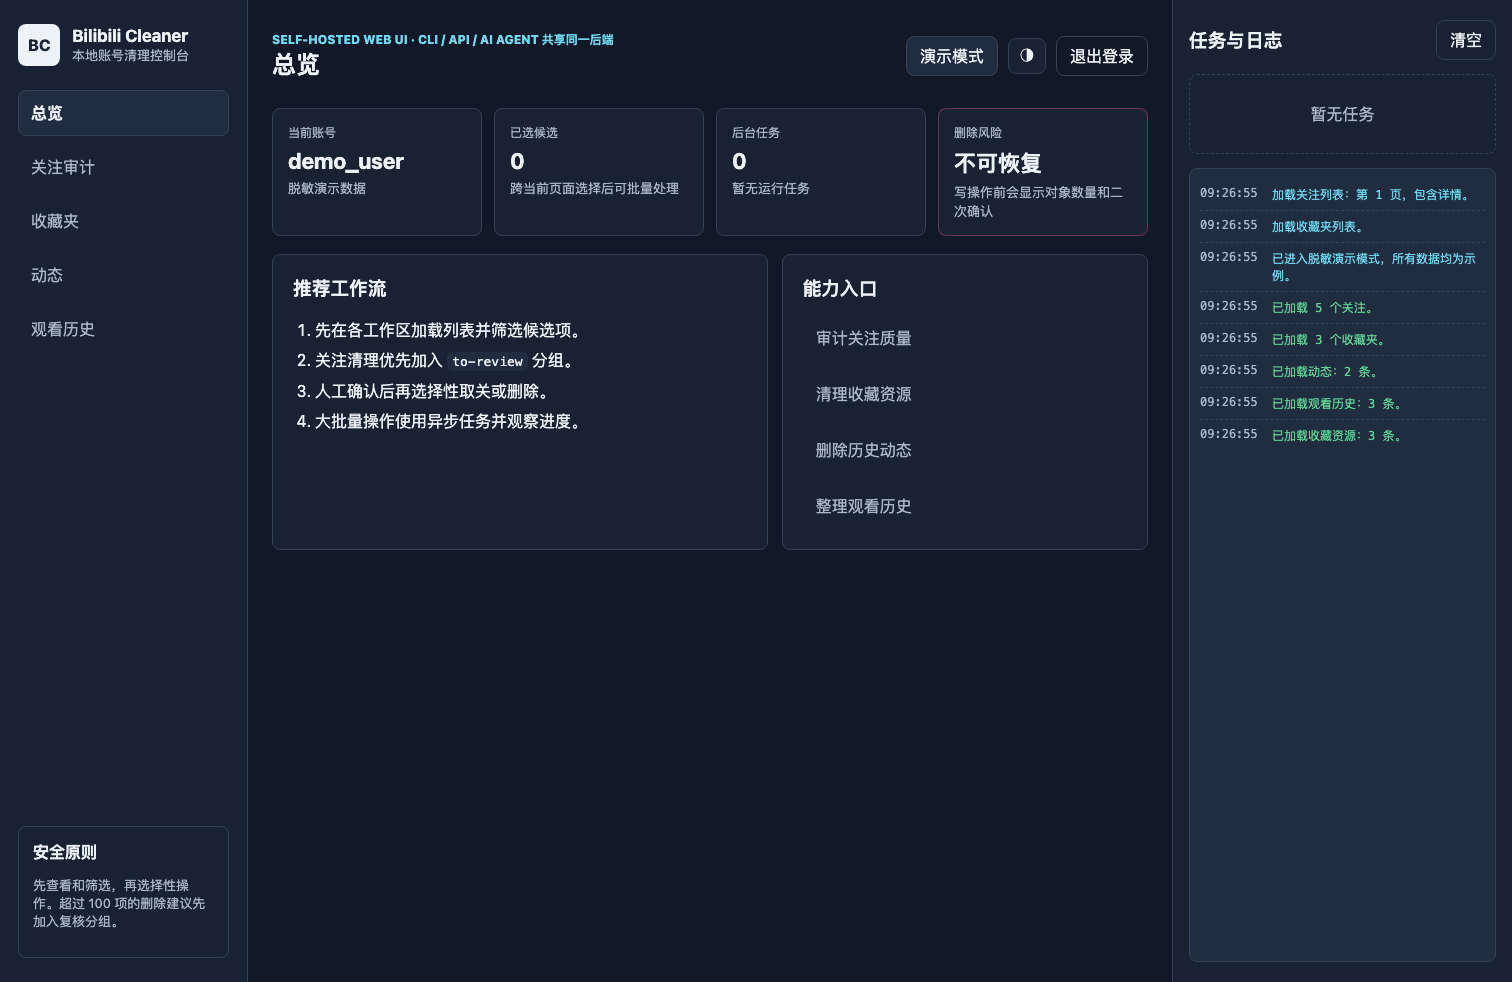
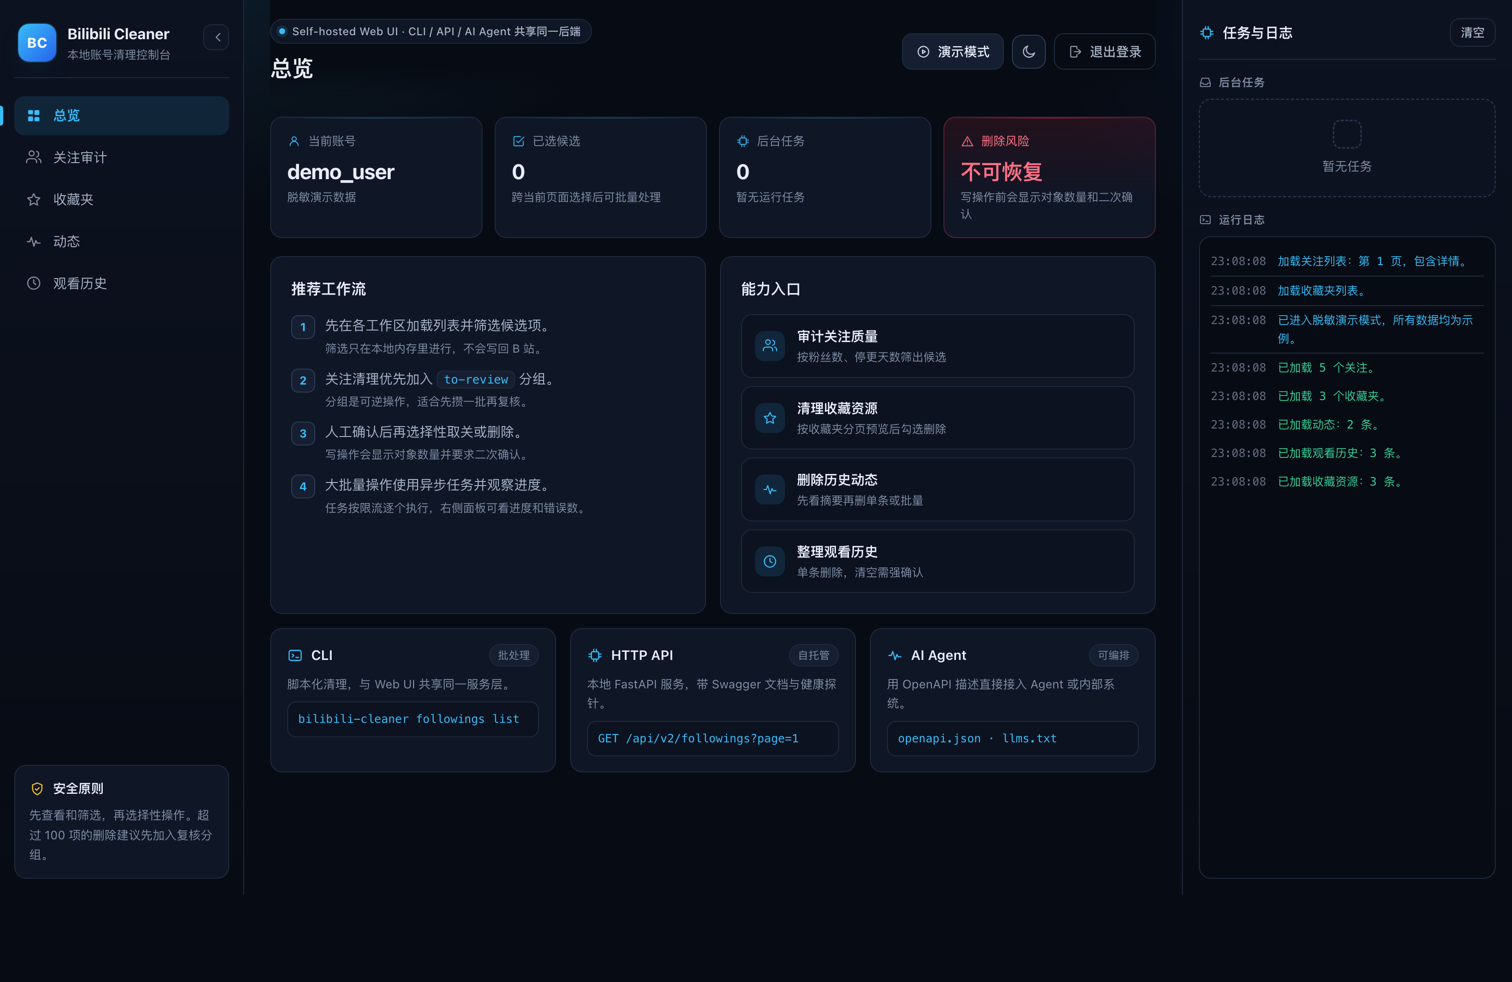
docs: refresh Web UI screenshots for the new console
Both screenshots showed the old flat layout, so they no longer matched
what ships. Recaptured at 1512x982 from the sanitized demo mode and
noted the dark/light toggle plus the ?demo=1 entry point.

diff --git a/README.en.md b/README.en.md
@@ -95,7 +95,9 @@ Then open:
 
 The Web UI is a local account cleanup console, not just a set of wipe buttons. It lets regular users scan to log in, preview lists, filter candidates, delete selected items, tag followings for manual review, and watch async task progress. The CLI, HTTP API, and AI-agent workflows continue to share the same backend service layer.
 
-> Screenshots use sanitized demo data. They do not contain real account IDs, names, cookies, or cleanup records.
+The console is dark by default with a light theme toggle in the top-right corner. The sidebar collapses, and the workspaces, metric cards, and task/log panel reflow on narrow screens.
+
+> Screenshots use sanitized demo data. They do not contain real account IDs, names, cookies, or cleanup records. Open `http://localhost:8000/?demo=1` to explore the same demo mode locally.
 
 ![Bilibili Cleaner Web dashboard](docs/assets/web-dashboard.png)
 

diff --git a/README.md b/README.md
@@ -155,7 +155,9 @@ Windows PowerShell 激活虚拟环境：
 
 Web UI 现在是一个可独立使用的本地清理控制台，不再只是“一键清空”入口。它适合普通用户在浏览器里完成扫码登录、列表预览、筛选候选、选择性删除、关注分组复核和异步任务进度查看；CLI、HTTP API 和 AI Agent 仍然共享同一套后端服务层，适合更高级的自动化流程。
 
-> 截图使用脱敏演示数据，不包含真实账号 UID、昵称、Cookie 或清理记录。
+界面默认深色，可在右上角切换浅色主题；侧边栏可折叠，工作区、指标卡和任务日志面板在窄屏下会自动重排。
+
+> 截图使用脱敏演示数据，不包含真实账号 UID、昵称、Cookie 或清理记录。可用 `http://localhost:8000/?demo=1` 直接进入同样的演示模式。
 
 ![Bilibili Cleaner Web dashboard](docs/assets/web-dashboard.png)
 
